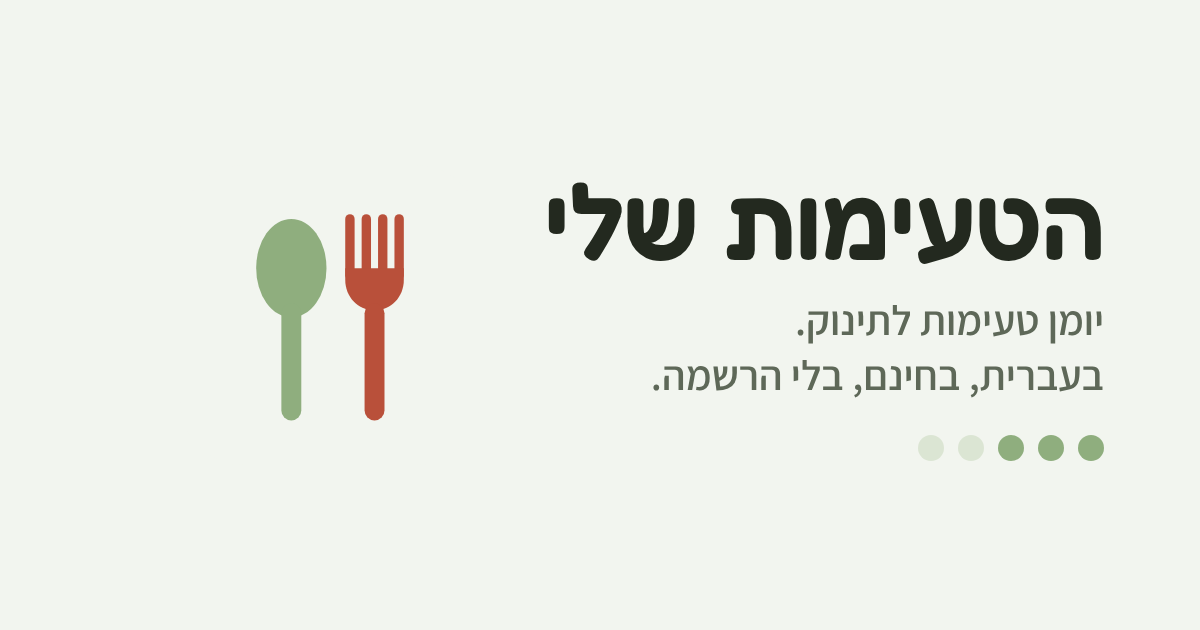
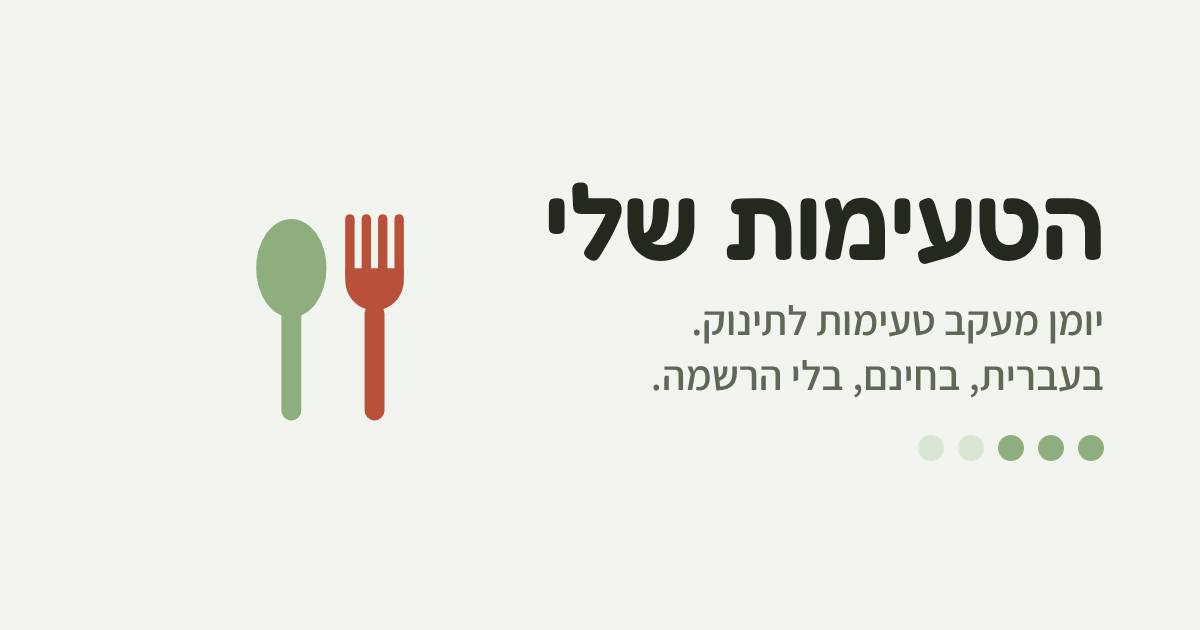
Five-times print table, 'tracking diary' wording, '+ given today' opens the food window, editing tastings
Claude-Session: https://claude.ai/code/session_01J896Y5Tvcy6S1woPciMoPd

Changed region(s): [[0.5858, 0.4825, 0.8633, 0.5429]]

diff --git a/index.html b/index.html
@@ -3,8 +3,8 @@
 <head>
 <meta charset="utf-8">
 <meta name="viewport" content="width=device-width, initial-scale=1, viewport-fit=cover">
-<title>הטעימות שלי: יומן טעימות לתינוק</title>
-<meta name="description" content="יומן טעימות לתינוק בעברית: מה נתת, מתי, כמה וכמה פעמים. בחינם, בלי הרשמה, הכול נשמר רק בטלפון שלך. מעקב בלבד, לא המלצה רפואית.">
+<title>הטעימות שלי: יומן מעקב טעימות לתינוק</title>
+<meta name="description" content="יומן מעקב טעימות לתינוק בעברית: מה נתת, מתי, כמה וכמה פעמים. בחינם, בלי הרשמה, הכול נשמר רק בטלפון שלך. מעקב בלבד, לא המלצה רפואית.">
 <link rel="canonical" href="https://avitalshuster.github.io/hateimot-sheli/">
 <meta name="theme-color" content="#f2f5ef" media="(prefers-color-scheme: light)">
 <meta name="theme-color" content="#171b15" media="(prefers-color-scheme: dark)">
@@ -14,8 +14,8 @@
 <meta name="apple-mobile-web-app-title" content="הטעימות שלי">
 <meta property="og:type" content="website">
 <meta property="og:locale" content="he_IL">
-<meta property="og:title" content="הטעימות שלי: יומן טעימות לתינוק">
-<meta property="og:description" content="יומן טעימות לתינוק בעברית: מה נתת, מתי, כמה וכמה פעמים. בחינם, בלי הרשמה, הכול נשמר רק בטלפון שלך. מעקב בלבד, לא המלצה רפואית.">
+<meta property="og:title" content="הטעימות שלי: יומן מעקב טעימות לתינוק">
+<meta property="og:description" content="יומן מעקב טעימות לתינוק בעברית: מה נתת, מתי, כמה וכמה פעמים. בחינם, בלי הרשמה, הכול נשמר רק בטלפון שלך. מעקב בלבד, לא המלצה רפואית.">
 <meta property="og:image" content="https://avitalshuster.github.io/hateimot-sheli/og-image.png">
 <meta property="og:image:width" content="1200">
 <meta property="og:image:height" content="630">
@@ -113,6 +113,7 @@ if ("serviceWorker" in navigator) {
   --ink: #23291f;
   --muted: #5e6858;
   --line: #dde5d6;
+  --grid: #b9c5af;        /* table lines that must show */
   --spoon: #8fae7e;       /* pea green: a dot that got filled */
   --spoon-empty: #dbe5d3;
   --accent: #b9503a;      /* peach-coral: the one action */
@@ -127,13 +128,13 @@ if ("serviceWorker" in navigator) {
 }
 @media (prefers-color-scheme: dark) {
   :root:not([data-theme="light"]) {
-    --ground: #171b15; --surface: #20261d; --ink: #eaf0e5; --muted: #a7b29f; --line: #343d2f;
+    --ground: #171b15; --surface: #20261d; --ink: #eaf0e5; --muted: #a7b29f; --line: #343d2f; --grid: #56634d;
     --spoon: #a3c290; --spoon-empty: #3a4534; --accent: #f09a7a; --accent-ink: #2a1610;
     --flag: #e8a96a; --flag-bg: #3a2e22; --focus: #8fb4ff; color-scheme: dark;
   }
 }
 :root[data-theme="dark"] {
-  --ground: #171b15; --surface: #20261d; --ink: #eaf0e5; --muted: #a7b29f; --line: #343d2f;
+  --ground: #171b15; --surface: #20261d; --ink: #eaf0e5; --muted: #a7b29f; --line: #343d2f; --grid: #56634d;
   --spoon: #a3c290; --spoon-empty: #3a4534; --accent: #f09a7a; --accent-ink: #2a1610;
   --flag: #e8a96a; --flag-bg: #3a2e22; --focus: #8fb4ff; color-scheme: dark;
 }
@@ -291,14 +292,22 @@ body::before { content: ""; position: fixed; inset: 0 0 auto; height: env(safe-a
 .pv-head h2 { font-size: 26px; }
 .pv-head p { margin: 4px 0 0; font-size: 14px; color: var(--muted); }
 .pv-demo { font-size: 14px; color: var(--muted); margin: 0; }
-.tbl-wrap { overflow-x: auto; border: 1px solid var(--line); border-radius: var(--r2); background: var(--surface); }
-table.log { border-collapse: collapse; width: 100%; min-width: 620px; font-size: 14px; }
-.log th, .log td { border-bottom: 1px solid var(--line); padding: 8px 10px; text-align: start; vertical-align: top; }
+.tbl-wrap { overflow-x: auto; border: 1px solid var(--grid); border-radius: var(--r2); background: var(--surface); }
+table.log { border-collapse: collapse; width: 100%; min-width: 720px; font-size: 14px; table-layout: fixed; }
+.log th, .log td { border: 1px solid var(--grid); padding: 6px 8px; text-align: start; vertical-align: top; }
+.log col.name { width: 16%; }
+.log .slot { display: grid; gap: 4px; }
+.log .slot > span { display: flex; align-items: flex-end; gap: 4px; }
+.log .slot .l { flex: none; font-size: 11px; color: var(--muted); }
+.log .slot .v { flex: 1; min-width: 0; min-height: 1.4em; border-bottom: 1px dotted var(--grid); font-variant-numeric: tabular-nums; overflow-wrap: anywhere; }
+.log .slot > span.nw { display: grid; gap: 2px; align-items: start; }
+.log .slot .v.note { border-bottom: 0; line-height: 1.4em; min-height: 4.2em;
+  background: repeating-linear-gradient(to bottom, transparent 0, transparent calc(1.4em - 1px), var(--grid) calc(1.4em - 1px), var(--grid) 1.4em); }
+.log .more { display: block; font-size: 11px; font-weight: 400; color: var(--muted); }
 .log thead th { font-size: 13px; color: var(--muted); font-weight: 700; background: var(--ground); }
 .log tbody th.cat { background: var(--ground); font-family: var(--font-display); font-weight: 600; font-size: 15px; color: var(--ink); }
 .log td.n { font-variant-numeric: tabular-nums; }
-.log tr.blank td { height: 34px; }
-.log td.ticks { letter-spacing: 4px; color: var(--muted); white-space: nowrap; }
+
 .seg { display: inline-flex; flex-wrap: wrap; gap: 4px; padding: 4px; background: var(--surface); border: 1px solid var(--line); border-radius: 999px; justify-self: start; }
 .seg label { position: relative; display: inline-flex; align-items: center; min-height: 40px; padding: 0 16px; border-radius: 999px; font-weight: 600; font-size: 15px; cursor: pointer; }
 .seg input { position: absolute; opacity: 0; inset: 0; margin: 0; cursor: pointer; }
@@ -323,11 +332,17 @@ table.log { border-collapse: collapse; width: 100%; min-width: 620px; font-size:
   @page { size: A4; margin: 12mm; }
   body { background: #fff; color: #000; padding: 0; font-size: 12px; }
   body::before, .wrap, .pv-actions, .pv-demo, .seg, .toast, dialog { display: none !important; }
-  .log td.ticks { color: #000; }
+  .log .slot .l, .log .more { color: #333; }
+  .log .slot .v { border-bottom-color: #bbb; }
   .pv { display: grid !important; max-width: none; }
   .tbl-wrap { overflow: visible; border: 0; }
   table.log { min-width: 0; font-size: 11px; }
-  .log th, .log td, .log thead th { border: 1px solid #999; padding: 4px 6px; color: #000; }
+  .log th, .log td, .log thead th { border: 1px solid #888; padding: 3px 5px; color: #000; }
+  .log .slot { gap: 2px; }
+  .log .slot .l { font-size: 9px; }
+  .log .slot .v { min-height: 1.3em; }
+  .log .slot .v.note { line-height: 1.25em; min-height: 3.75em; -webkit-print-color-adjust: exact; print-color-adjust: exact;
+    background: repeating-linear-gradient(to bottom, transparent 0, transparent calc(1.25em - 1px), #bbb calc(1.25em - 1px), #bbb 1.25em); }
   .log thead th, .log tbody th.cat { background: #eee !important; -webkit-print-color-adjust: exact; print-color-adjust: exact; }
   .log tr { break-inside: avoid; }
   .pv-head p { color: #000; }
@@ -390,7 +405,7 @@ legend { font-family: var(--font-display); font-weight: 600; font-size: 18px; pa
       </svg>
     <h1>הטעימות שלי</h1>
   </div>
-  <p>יומן טעימות לתינוק. האתר פתוח למי שקיבלה קוד כניסה.</p>
+  <p>יומן מעקב טעימות לתינוק. האתר פתוח למי שקיבלה קוד כניסה.</p>
   <form id="gateForm" novalidate>
     <label for="gateCode">קוד כניסה</label>
     <input id="gateCode" type="text" autocomplete="off" autocapitalize="characters" spellcheck="false" placeholder="TAAM-XXXXX" maxlength="20" aria-describedby="gateErr">
@@ -541,7 +556,8 @@ legend { font-family: var(--font-display); font-weight: 600; font-size: 18px; pa
   </div>
   <div class="tbl-wrap">
     <table class="log">
-      <thead><tr><th scope="col">מאכל</th><th scope="col">פעם ראשונה</th><th scope="col">כמות בפעם הראשונה</th><th scope="col">כמה פעמים</th><th scope="col">פעם אחרונה</th><th scope="col">תגובה / הערות</th></tr></thead>
+      <colgroup><col class="name"><col><col><col><col><col></colgroup>
+      <thead><tr><th scope="col">מאכל</th><th scope="col">פעם 1</th><th scope="col">פעם 2</th><th scope="col">פעם 3</th><th scope="col">פעם 4</th><th scope="col">פעם 5</th></tr></thead>
       <tbody id="pvBody"></tbody>
     </table>
   </div>
@@ -677,7 +693,7 @@ legend { font-family: var(--font-display); font-weight: 600; font-size: 18px; pa
     </dl>
     <form id="entryForm">
       <fieldset>
-        <legend>רישום פעם חדשה</legend>
+        <legend id="eLegend">רישום פעם חדשה</legend>
         <div class="field">
           <label for="eDate">תאריך</label>
           <input id="eDate" type="date" required>
@@ -699,7 +715,7 @@ legend { font-family: var(--font-display); font-weight: 600; font-size: 18px; pa
           <label for="eNote">הערה (לא חובה)</label>
           <textarea id="eNote" maxlength="300" placeholder="למשל: מעורבב בבטטה, אהב/ה מאוד"></textarea>
         </div>
-        <button class="save" type="submit">שמירה</button>
+        <button class="save" type="submit" id="eSave">שמירה</button>
       </fieldset>
     </form>
     <div>
@@ -786,6 +802,7 @@ legend { font-family: var(--font-display); font-weight: 600; font-size: 18px; pa
     { id: "meh", label: "ככה ככה" },
     { id: "no", label: "לא אהב/ה" }
   ];
+  /* storage names keep the first working title on purpose: changing them would lose what people already recorded */
   var KEY = "bis-rishon:v2", KEY_OLD = "bis-rishon:v1";
   function likeLabel(id) { var l = LIKE.filter(function (x) { return x.id === id; })[0]; return l ? l.label : ""; }
 
@@ -1035,13 +1052,11 @@ legend { font-family: var(--font-display); font-weight: 600; font-size: 18px; pa
     t.textContent = givenToday ? "✓ היום" : "+ נתתי היום";
     t.setAttribute("aria-label", t.textContent + ": " + name);
     t.addEventListener("click", function () {
-      if (givenToday) { openSheet(name); return; }
-      (state.entries[name] = state.entries[name] || []).push({ date: todayIso(), amount: "", react: "none", like: "", note: "" });
-      persist();
-      var fresh = row(name); li.replaceWith(fresh);
-      renderSummary(); renderBackup(); refreshCount(catOf(name));
-      fresh.querySelector(".today").focus();
-      toast("נרשם: " + name + " היום");
+      if (givenToday) {
+        var todays = (state.entries[name] || []).filter(function (e) { return e.date === todayIso(); });
+        openSheet(name, todays[todays.length - 1]); return;
+      }
+      openSheet(name);
     });
     li.appendChild(open); li.appendChild(t);
     return li;
@@ -1240,6 +1255,7 @@ legend { font-family: var(--font-display); font-weight: 600; font-size: 18px; pa
       del.addEventListener("click", function () {
         var arr = state.entries[current]; var i = arr.indexOf(e);
         if (i !== -1) arr.splice(i, 1);
+        if (editing === e) resetForm();
         if (e.meal) {
           var food = current;
           state.meals.forEach(function (m) { if (m.id === e.meal) m.foods = m.foods.filter(function (f) { return f !== food; }); });
@@ -1247,19 +1263,36 @@ legend { font-family: var(--font-display); font-weight: 600; font-size: 18px; pa
         }
         persist(); renderAll(); toast("נמחק");
       });
-      li.appendChild(d); li.appendChild(del); h.appendChild(li);
+      var edit = document.createElement("button"); edit.type = "button"; edit.className = "del"; edit.textContent = "עריכה";
+      edit.setAttribute("aria-label", "עריכה: הרישום מ-" + fmtDate(e.date));
+      edit.addEventListener("click", function () { startEdit(e); el("eDate").focus(); el("entryForm").scrollIntoView({ block: "start", behavior: "smooth" }); });
+      var acts = document.createElement("span"); acts.style.display = "flex"; acts.style.gap = "8px"; acts.style.flex = "none";
+      acts.appendChild(edit); acts.appendChild(del);
+      li.appendChild(d); li.appendChild(acts); h.appendChild(li);
     });
   }
-  function openSheet(name) {
-    current = name; chosenReact = "none"; chosenLike = "";
-    el("eDate").value = todayIso(); el("eDate").max = todayIso();
-    el("eAmount").value = ""; el("eNote").value = "";
-    renderReact(); renderLike(); renderAmounts(); renderSheet();
+  var editing = null;   /* the tasting being edited, or null for a new one */
+  function resetForm() {
+    editing = null; chosenReact = "none"; chosenLike = "";
+    el("eDate").value = todayIso(); el("eAmount").value = ""; el("eNote").value = "";
+    el("eLegend").textContent = "רישום פעם חדשה"; el("eSave").textContent = "שמירה";
+    renderReact(); renderLike(); renderAmounts();
+  }
+  function startEdit(e) {
+    editing = e; chosenReact = e.react; chosenLike = e.like || "";
+    el("eDate").value = e.date; el("eAmount").value = e.amount || ""; el("eNote").value = e.note || "";
+    el("eLegend").textContent = "עריכת הפעם מ-" + fmtDate(e.date); el("eSave").textContent = "שמירת השינויים";
+    renderReact(); renderLike(); renderAmounts();
+  }
+  function openSheet(name, editEntry) {
+    current = name; el("eDate").max = todayIso();
+    if (editEntry) startEdit(editEntry); else resetForm();
+    renderSheet();
     var d = el("sheet");
     if (d.showModal) d.showModal(); else d.setAttribute("open", "");
   }
   function closeSheet() { var d = el("sheet"); if (d.close) d.close(); else d.removeAttribute("open"); }
-  el("sheet").addEventListener("close", function () { current = null; resetRemoveOwn(); });
+  el("sheet").addEventListener("close", function () { current = null; editing = null; resetRemoveOwn(); });
   var removeArmed = null;
   function resetRemoveOwn() { clearTimeout(removeArmed); removeArmed = null; el("removeOwn").textContent = "הסרה מהמאכלים שלי"; }
   el("removeOwn").addEventListener("click", function () {
@@ -1281,10 +1314,13 @@ legend { font-family: var(--font-display); font-weight: 600; font-size: 18px; pa
   el("eAmount").addEventListener("input", renderAmounts);
   el("entryForm").addEventListener("submit", function (ev) {
     ev.preventDefault();
-    var date = el("eDate").value || todayIso();
-    add(current, { date: date, amount: el("eAmount").value.trim(), react: chosenReact, like: chosenLike, note: el("eNote").value.trim() });
-    el("eAmount").value = ""; el("eNote").value = ""; chosenReact = "none"; chosenLike = ""; renderReact(); renderLike(); renderAmounts();
-    toast("נשמר");
+    var date = el("eDate").value || todayIso(), name = current;
+    var fields = { date: date, amount: el("eAmount").value.trim(), react: chosenReact, like: chosenLike, note: el("eNote").value.trim() };
+    var wasEdit = !!editing;
+    if (editing) { Object.keys(fields).forEach(function (k) { editing[k] = fields[k]; }); }
+    else (state.entries[name] = state.entries[name] || []).push(fields);
+    persist(); closeSheet(); renderAll();
+    toast(wasEdit ? "השינויים נשמרו: " + name : "נרשם: " + name + (date === todayIso() ? " היום" : " ב-" + fmtDate(date)));
   });
 
   /* meal: several foods logged at once */
@@ -1416,15 +1452,31 @@ legend { font-family: var(--font-display); font-weight: 600; font-size: 18px; pa
   /* printable table */
   function fullDate(s) { var p = s.split("-"); return p[2] + "." + p[1] + "." + p[0].slice(2); }
   function td(tr, text, cls) { var c = document.createElement("td"); c.textContent = text; if (cls) c.className = cls; tr.appendChild(c); }
+  /* each row: the food, then 5 times; every time has a date and, under it, amount / notes */
+  var TIMES = 5;
+  function slot(tr, date, note) {
+    var c = document.createElement("td"); var w = document.createElement("div"); w.className = "slot";
+    w.innerHTML = '<span><span class="l">תאריך</span><span class="v"></span></span><span class="nw"><span class="l">כמות / הערות</span><span class="v note"></span></span>';
+    var v = w.querySelectorAll(".v"); v[0].textContent = date || ""; v[1].textContent = note || "";
+    c.appendChild(w); tr.appendChild(c);
+  }
+  function nameCell(tr, name, more) {
+    var th = document.createElement("th"); th.scope = "row"; th.textContent = name;
+    if (more) { var m = document.createElement("span"); m.className = "more"; m.textContent = more; th.appendChild(m); }
+    tr.appendChild(th);
+  }
   function blankRow(body, name) {
-    var tr = document.createElement("tr"); tr.className = "blank";
-    var nameCell = document.createElement("th"); nameCell.scope = "row"; nameCell.textContent = name; tr.appendChild(nameCell);
-    td(tr, ""); td(tr, ""); td(tr, "○○○○○○", "ticks"); td(tr, ""); td(tr, "");
+    var tr = document.createElement("tr"); nameCell(tr, name);
+    for (var i = 0; i < TIMES; i++) slot(tr, "", "");
     body.appendChild(tr);
   }
   function catRow(body, label) {
     var hr = document.createElement("tr"); var th = document.createElement("th");
-    th.colSpan = 6; th.className = "cat"; th.scope = "colgroup"; th.textContent = label; hr.appendChild(th); body.appendChild(hr);
+    th.colSpan = TIMES + 1; th.className = "cat"; th.scope = "colgroup"; th.textContent = label; hr.appendChild(th); body.appendChild(hr);
+  }
+  function entryNote(e) {
+    var r = REACT.filter(function (x) { return x.id === e.react; })[0];
+    return [e.amount, e.react !== "none" && r ? r.label : "", likeLabel(e.like), e.note].filter(Boolean).join(", ");
   }
   function renderPrint() {
     var empty = el("pvEmpty").checked;
@@ -1432,7 +1484,7 @@ legend { font-family: var(--font-display); font-weight: 600; font-size: 18px; pa
     el("pvTitle").textContent = empty
       ? (name ? "טבלת הטעימות של " + name : "טבלת טעימות")
       : (name ? "יומן הטעימות של " + name : "יומן טעימות");
-    el("pvDate").textContent = empty ? (name ? "" : "שם: ________________   ") + "בכל פעם שנותנים, מסמנים עיגול בעמודה ׳כמה פעמים׳." : "הודפס ב-" + fullDate(todayIso());
+    el("pvDate").textContent = empty ? (name ? "" : "שם: ________________   ") + "בכל פעם שנותנים, ממלאים משבצת: תאריך, ומתחתיו כמות והערות." : "הודפס ב-" + fullDate(todayIso());
     var body = el("pvBody"); body.textContent = "";
     if (empty) {
       CATS.forEach(function (c) {
@@ -1450,19 +1502,20 @@ legend { font-family: var(--font-display); font-weight: 600; font-size: 18px; pa
       if (!foods.length) return;
       catRow(body, c.label);
       foods.forEach(function (n) {
-        var l = entriesOf(n); var tr = document.createElement("tr");
-        var nameCell = document.createElement("th"); nameCell.scope = "row"; nameCell.textContent = n; tr.appendChild(nameCell);
-        var notes = l.filter(function (e) { return e.react !== "none" || e.note || e.like; }).map(function (e) {
-          var r = REACT.filter(function (x) { return x.id === e.react; })[0];
-          return fmtDate(e.date) + ": " + [e.react !== "none" && r ? r.label : "", likeLabel(e.like), e.note].filter(Boolean).join(", ");
-        });
-        td(tr, fullDate(l[0].date), "n"); td(tr, l[0].amount || ""); td(tr, String(l.length), "n");
-        td(tr, fullDate(l[l.length - 1].date), "n"); td(tr, notes.join(" | "));
-        body.appendChild(tr);
+        var l = entriesOf(n);
+        for (var from = 0; from < l.length; from += TIMES) {
+          var tr = document.createElement("tr");
+          nameCell(tr, n, from ? "פעמים " + (from + 1) + "–" + Math.min(from + TIMES, l.length) : (l.length > TIMES ? "סה״כ " + l.length + " פעמים" : ""));
+          for (var i = from; i < from + TIMES; i++) {
+            var e = l[i];
+            slot(tr, e ? fullDate(e.date) : "", e ? entryNote(e) : "");
+          }
+          body.appendChild(tr);
+        }
       });
     });
     if (!body.children.length) {
-      var tr = document.createElement("tr"); var c = document.createElement("td"); c.colSpan = 6;
+      var tr = document.createElement("tr"); var c = document.createElement("td"); c.colSpan = TIMES + 1;
       c.textContent = "עוד לא נרשם כלום. אפשר לבחור למעלה ׳טבלה ריקה למילוי ביד׳."; tr.appendChild(c); body.appendChild(tr);
     }
   }
@@ -1515,7 +1568,7 @@ legend { font-family: var(--font-display); font-weight: 600; font-size: 18px; pa
     db.backupAt = todayIso(); persist();
     var blob = new Blob([JSON.stringify(db, null, 2)], { type: "application/json" });
     var a = document.createElement("a");
-    a.href = URL.createObjectURL(blob); a.download = "bis-rishon-backup-" + todayIso() + ".json";
+    a.href = URL.createObjectURL(blob); a.download = "hateimot-sheli-backup-" + todayIso() + ".json";
     document.body.appendChild(a); a.click();
     setTimeout(function () { URL.revokeObjectURL(a.href); a.remove(); }, 1500);
     renderBackup(); toast("נוצר קובץ גיבוי");

diff --git a/sw.js b/sw.js
@@ -1,5 +1,5 @@
 /* Keeps the site working without internet. Bump VERSION on every release. */
-const VERSION = "bis-rishon-v11";
+const VERSION = "hateimot-sheli-v16";
 const CORE = ["./", "./index.html", "./manifest.webmanifest", "./icon.svg", "./icon-192.png", "./icon-512.png", "./apple-touch-icon.png", "./fonts/fonts.css"];
 
 self.addEventListener("install", (e) => {
